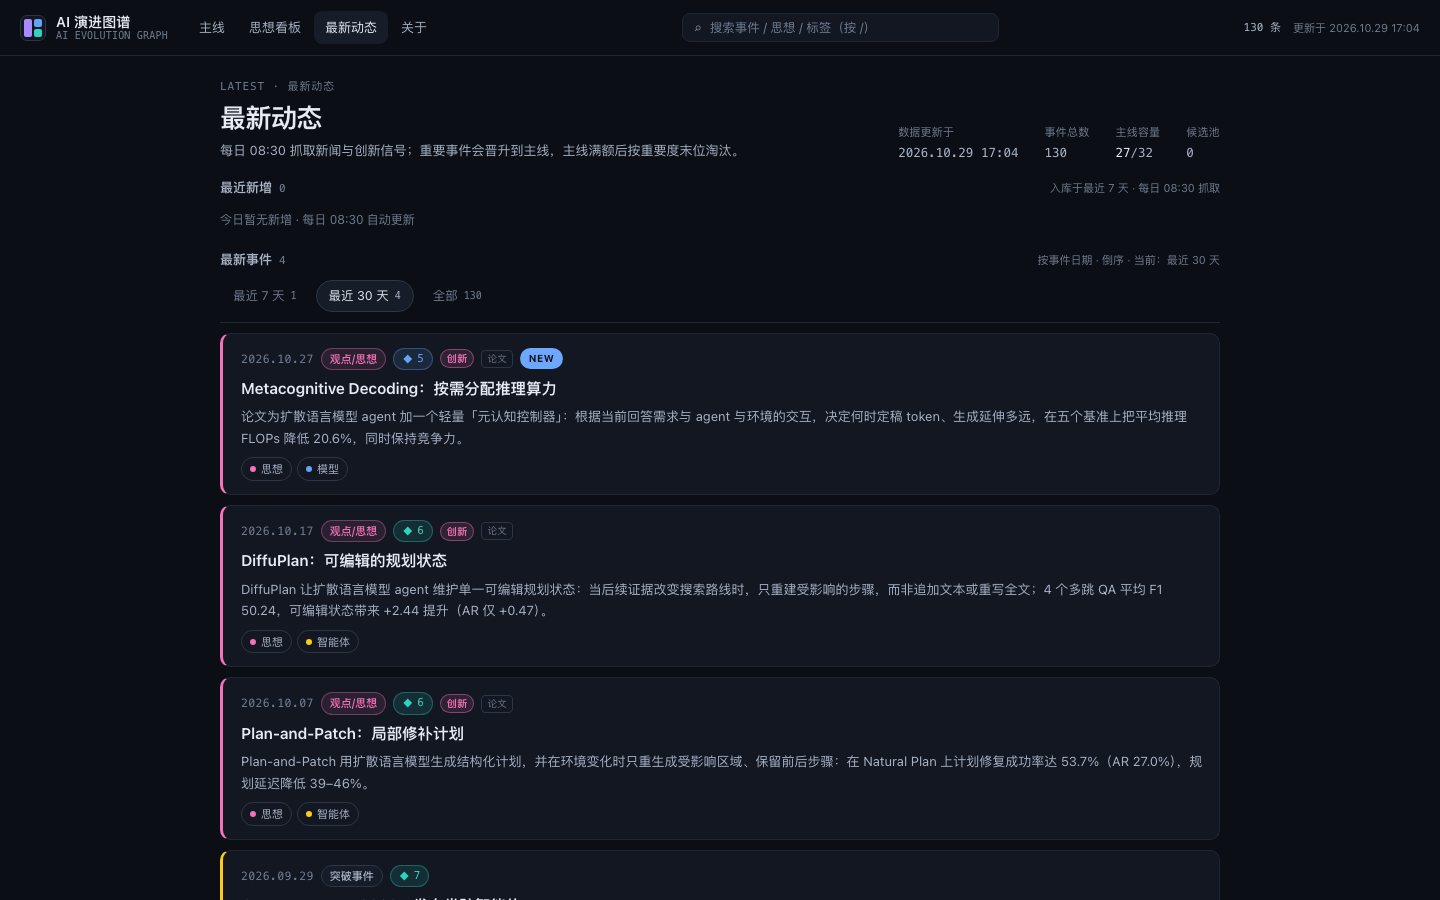
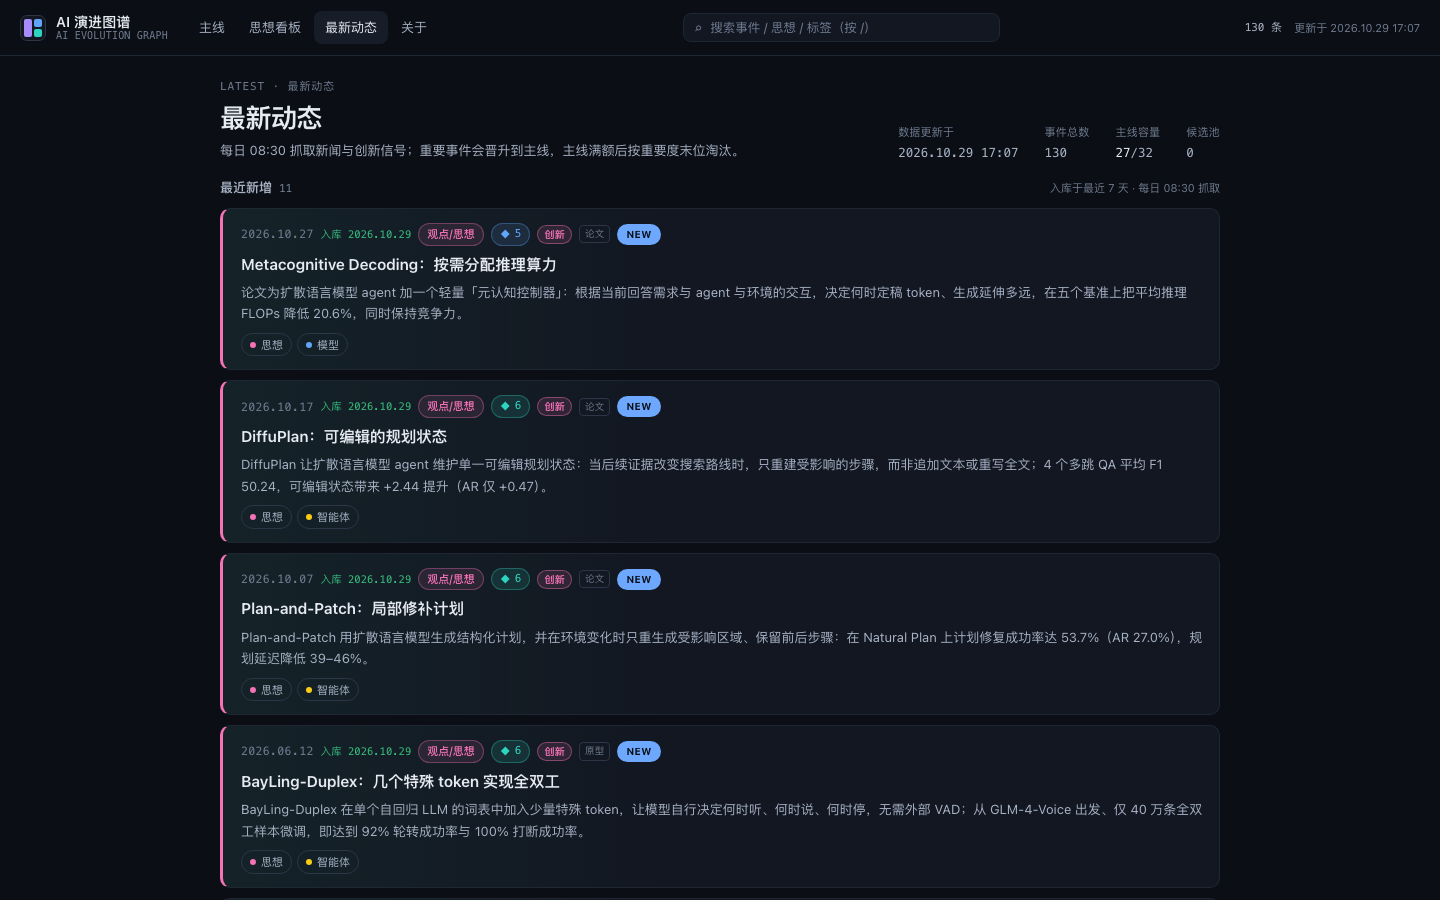
M3.5 polish: mark today's 11 innovation entries as added (NEW + 最近新增 demo)
- added_at: 2026-10-29 on the 11 innovation insights -> feed 最近新增 section and ideas-board NEW badges now visible
- docs: M3.5 acceptance updated
- QA still 68/68; vitest 36/36

Changed region(s): [[0.1562, 0.2178, 0.8438, 0.9956], [0.75, 0.4356, 0.8125, 0.4667], [0.2812, 0.9956, 0.3438, 1.0]]

diff --git a/docs/M3.5-ACCEPTANCE.md b/docs/M3.5-ACCEPTANCE.md
@@ -4,7 +4,7 @@
 
 ## 一、最新动态（#/feed，活新闻流）
 - [x] 页头：动态定位文案 + 数据更新于 / 事件总数 / **主线容量 27/32** / **候选池 0**
-- [x] 最近新增：`added_at` 近 7 天（NEW + 入库日期）；当前为空态提示「今日暂无新增 · 每日 08:30 自动更新」
+- [x] 最近新增：`added_at` 近 7 天（NEW + 入库日期）；当前展示今天入库的 11 条创新信号（入库 2026.10.29）
 - [x] 最新事件：7 天 / 30 天 / 全部（当前 1 / 4 / 130），事件日期倒序
 - [x] 状态徽标：主线（金）/ 候选晋升（蓝）/ 创新（粉）+ 成熟度（论文/原型/产品）/ 待核对 / NEW
 - [x] 候选晋升池：规则说明 + 空态提示

diff --git a/data/entries/nested-learning-2025.md b/data/entries/nested-learning-2025.md
@@ -18,6 +18,7 @@ sources:
   - "https://research.google/blog/introducing-nested-learning-a-new-ml-paradigm-for-continual-learning/"
 relations: []
 thought_pin: top
+added_at: 2026-10-29
 needs_review: true
 node_kind: paper
 innovation: true

diff --git a/data/entries/petri-2025.md b/data/entries/petri-2025.md
@@ -18,6 +18,7 @@ sources:
   - "https://www.anthropic.com/research/petri-open-source-auditing"
   - "https://github.com/safety-research/petri"
 relations: []
+added_at: 2026-10-29
 needs_review: false
 node_kind: concept
 innovation: true

diff --git a/data/entries/sleep-time-compute-2025.md b/data/entries/sleep-time-compute-2025.md
@@ -20,6 +20,7 @@ relations:
   - to: o1-2024
     type: 启发
     note: "受 o1 类 test-time compute 路线启发，但把算力挪到查询到来之前"
+added_at: 2026-10-29
 needs_review: false
 node_kind: paper
 innovation: true

diff --git a/data/entries/lslm-listen-while-speaking-2025.md b/data/entries/lslm-listen-while-speaking-2025.md
@@ -17,6 +17,7 @@ sources:
   - "https://ojs.aaai.org/index.php/AAAI/article/view/34665"
   - "https://doi.org/10.1609/aaai.v39i23.34665"
 relations: []
+added_at: 2026-10-29
 needs_review: false
 node_kind: paper
 innovation: true

diff --git a/data/entries/metacognitive-decoding-2026.md b/data/entries/metacognitive-decoding-2026.md
@@ -16,6 +16,7 @@ tags: [diffusion-lm, inference-efficiency, metacognition, agent]
 sources:
   - "https://arxiv.org/abs/2610.37642"
 relations: []
+added_at: 2026-10-29
 needs_review: false
 node_kind: paper
 innovation: true

diff --git a/data/entries/audio-interaction-2026.md b/data/entries/audio-interaction-2026.md
@@ -16,6 +16,7 @@ tags: [audio-interaction, always-on, proactive, speech]
 sources:
   - "https://arxiv.org/abs/2606.05121"
 relations: []
+added_at: 2026-10-29
 needs_review: false
 node_kind: paper
 innovation: true

diff --git a/data/entries/bayling-duplex-2026.md b/data/entries/bayling-duplex-2026.md
@@ -17,6 +17,7 @@ sources:
   - "https://arxiv.org/abs/2606.14528"
   - "https://github.com/BayLing-Models/BayLing-Duplex"
 relations: []
+added_at: 2026-10-29
 needs_review: false
 node_kind: paper
 innovation: true

diff --git a/data/entries/f-actor-2026.md b/data/entries/f-actor-2026.md
@@ -16,6 +16,7 @@ tags: [full-duplex, controllability, speech, dialogue]
 sources:
   - "https://arxiv.org/abs/2601.11329"
 relations: []
+added_at: 2026-10-29
 needs_review: false
 node_kind: paper
 innovation: true

diff --git a/data/entries/diffuplan-2026.md b/data/entries/diffuplan-2026.md
@@ -17,6 +17,7 @@ sources:
   - "https://arxiv.org/abs/2610.24717"
   - "https://github.com/Jaasssoooonnnnn/DiffuPlan"
 relations: []
+added_at: 2026-10-29
 needs_review: false
 node_kind: paper
 innovation: true

diff --git a/data/entries/plan-and-patch-2026.md b/data/entries/plan-and-patch-2026.md
@@ -16,6 +16,7 @@ tags: [diffusion-lm, agent, planning, repair]
 sources:
   - "https://arxiv.org/abs/2610.10786"
 relations: []
+added_at: 2026-10-29
 needs_review: false
 node_kind: paper
 innovation: true

diff --git a/data/entries/duplex-sla-2026.md b/data/entries/duplex-sla-2026.md
@@ -17,6 +17,7 @@ sources:
   - "https://arxiv.org/abs/2605.20755"
   - "https://github.com/hyzhang24/DuplexSLA"
 relations: []
+added_at: 2026-10-29
 needs_review: false
 node_kind: paper
 innovation: true
